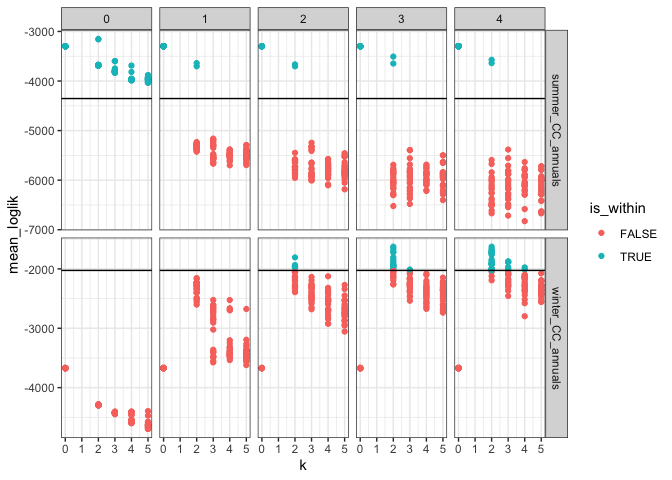
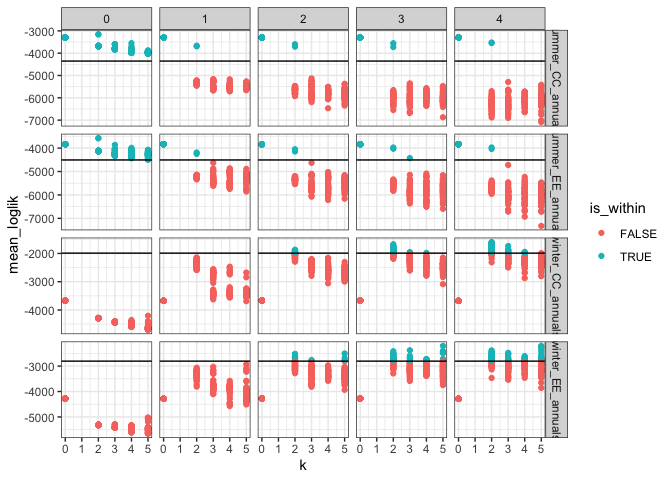
run with 2se

diff --git a/analysis/dev/plants_explore.md b/analysis/dev/plants_explore.md
@@ -1,7 +1,7 @@
 Portal annuals
 ================
 Renata Diaz
-2021-05-30
+2021-07-07
 
   - [Specs](#specs)
   - [winter](#winter)
@@ -10,16 +10,17 @@ Renata Diaz
 ## Specs
 
 ``` r
-   ldats_fit = target(fit_ldats_crossval(dataset, buffer = 2, k = ks, lda_seed = seeds, cpts = cpts, nit = 100),
+   methods <- drake::drake_plan(
+    ldats_fit = target(fit_ldats_crossval(dataset, buffer = 2, k = ks, lda_seed = seeds, cpts = cpts, nit = 100),
                        transform = cross(
                          dataset = !!rlang::syms(datasets$target),
                          ks = !!c(0,2:5),
-                         seeds = !!seq(2, 50, by = 2),
+                         seeds = !!seq(2, 100, by = 2),
                          cpts = !!c(0:4),
                          return_full = F,
                          return_fits = F,
                          summarize_ll = F
-                       ))
+                       )),
 ```
 
     ## Joining, by = "dat_name"
@@ -40,17 +41,63 @@ Renata Diaz
 
 | k | lda\_seed | cpts | nit | mean\_loglik | se\_loglik | dat\_name           |    Mean | Median | Mode | Lower\_95% | Upper\_95% |   SD | MCMCerr |   AC10 |      ESS | cpt | nyears | width | width\_ratio | modal\_estimate | seg\_before | seg\_after | dissimilarity | overall\_r2 | species\_mean\_r2 |
 | -: | --------: | ---: | --: | -----------: | ---------: | :------------------ | ------: | -----: | ---: | ---------: | ---------: | ---: | ------: | -----: | -------: | :-- | -----: | ----: | -----------: | --------------: | ----------: | ---------: | ------------: | ----------: | ----------------: |
-| 2 |        10 |    2 | 100 |   \-1806.318 |   483.6171 | winter\_CC\_annuals | 1994.94 |   1995 | 1993 |       1990 |       1999 | 2.44 |  0.0772 | 0.0582 | 269.0895 | 1   |     26 |     9 |    0.3461538 |            1993 |           1 |          2 |     0.3554668 |   0.3635679 |         0.2422645 |
-| 2 |        10 |    2 | 100 |   \-1806.318 |   483.6171 | winter\_CC\_annuals | 2004.98 |   2003 | 1997 |       1994 |       2017 | 7.29 |  0.2305 | 0.0188 | 278.4256 | 2   |     26 |    23 |    0.8846154 |            1996 |           2 |          3 |     0.3950211 |   0.3635679 |         0.2422645 |
+| 2 |        28 |    2 | 100 |   \-1870.255 |   521.1112 | winter\_CC\_annuals | 1995.13 |   1995 | 1995 |       1990 |       1999 | 2.45 |  0.0775 | 0.0790 | 213.5659 | 1   |     26 |     9 |    0.3461538 |            1997 |           1 |          2 |     0.5990332 |   0.3378945 |         0.2422645 |
+| 2 |        28 |    2 | 100 |   \-1870.255 |   521.1112 | winter\_CC\_annuals | 2005.30 |   2005 | 1998 |       1994 |       2017 | 7.02 |  0.2220 | 0.0703 | 223.8941 | 2   |     26 |    23 |    0.8846154 |            2013 |           2 |          3 |     0.0065182 |   0.3378945 |         0.2422645 |
 
 </div>
 
 ![](plants_explore_files/figure-gfm/unnamed-chunk-3-1.png)<!-- -->![](plants_explore_files/figure-gfm/unnamed-chunk-3-2.png)<!-- -->
 
-## summer
+<div class="kable-table">
 
-    ## Warning in if (model_fit$config$cpts == 0) {: the condition has length > 1 and
-    ## only the first element will be used
+| topic | species   |      prop | topic\_rank |
+| :---- | :-------- | --------: | ----------: |
+| V1    | hapl grac | 0.7648339 |           1 |
+| V1    | erio aber | 0.0840134 |           2 |
+| V1    | eria diff | 0.0663522 |           3 |
+| V1    | vulp octo | 0.0187866 |           4 |
+| V2    | erod cicu | 0.2924020 |           1 |
+| V2    | astr nutt | 0.1718366 |           2 |
+| V2    | chae stev | 0.1367089 |           3 |
+| V2    | lesq gord | 0.1090980 |           4 |
+
+</div>
+
+    ## Joining, by = "year"
+
+    ## Joining, by = "cpt"
+
+    ## Joining, by = "year"
+
+    ## Joining, by = c("year", "species")
+
+<div class="kable-table">
+
+| k | lda\_seed | cpts | nit | mean\_loglik | se\_loglik | dat\_name           |    Mean | Median | Mode | Lower\_95% | Upper\_95% |   SD | MCMCerr |   AC10 |      ESS | cpt | nyears | width | width\_ratio | modal\_estimate | seg\_before | seg\_after | dissimilarity | overall\_r2 | species\_mean\_r2 |
+| -: | --------: | ---: | --: | -----------: | ---------: | :------------------ | ------: | -----: | ---: | ---------: | ---------: | ---: | ------: | -----: | -------: | :-- | -----: | ----: | -----------: | --------------: | ----------: | ---------: | ------------: | ----------: | ----------------: |
+| 2 |        94 |    2 | 100 |   \-2519.017 |   756.2338 | winter\_EE\_annuals | 1994.63 |   1994 | 1993 |       1990 |       2000 | 2.95 |  0.0933 | 0.0816 | 303.9290 | 1   |     27 |    10 |    0.3703704 |            1993 |           1 |          2 |     0.3628510 |   0.5369984 |         0.3921912 |
+| 2 |        94 |    2 | 100 |   \-2519.017 |   756.2338 | winter\_EE\_annuals | 2005.30 |   2006 | 1997 |       1994 |       2018 | 7.59 |  0.2400 | 0.0671 | 171.5457 | 2   |     27 |    24 |    0.8888889 |            1995 |           2 |          3 |     0.2327235 |   0.5369984 |         0.3921912 |
+
+</div>
+
+![](plants_explore_files/figure-gfm/unnamed-chunk-3-3.png)<!-- -->![](plants_explore_files/figure-gfm/unnamed-chunk-3-4.png)<!-- -->
+
+<div class="kable-table">
+
+| topic | species   |      prop | topic\_rank |
+| :---- | :-------- | --------: | ----------: |
+| V1    | erod cicu | 0.4411626 |           1 |
+| V1    | astr nutt | 0.2266369 |           2 |
+| V1    | lesq gord | 0.0740993 |           3 |
+| V1    | erio aber | 0.0550191 |           4 |
+| V2    | hapl grac | 0.7581819 |           1 |
+| V2    | eria diff | 0.0807321 |           2 |
+| V2    | erio aber | 0.0464280 |           3 |
+| V2    | astr nutt | 0.0309030 |           4 |
+
+</div>
+
+## summer
 
     ## Joining, by = "year"
 
@@ -65,31 +112,25 @@ Renata Diaz
 | k | lda\_seed | cpts | nit | mean\_loglik | se\_loglik | dat\_name           | Mean | Median | Mode | Lower\_95. | Upper\_95. | SD | MCMCerr | AC10 | ESS | cpt | nyears | width | width\_ratio | modal\_estimate | seg\_before | seg\_after | dissimilarity | overall\_r2 | species\_mean\_r2 |
 | -: | --------: | ---: | --: | -----------: | ---------: | :------------------ | :--- | :----- | :--- | :--------- | :--------- | :- | :------ | :--- | --: | :-- | -----: | :---- | :----------- | :-------------- | :---------- | :--------- | :------------ | ----------: | ----------------: |
 | 0 |         2 |    0 | 100 |   \-3297.154 |   1231.419 | summer\_CC\_annuals | NA   | NA     | NA   | NA         | NA         | NA | NA      | NA   |   0 | NA  |     25 | NA    | NA           | NA              | NA          | NA         | NA            |   0.3089993 |         0.3089993 |
-| 0 |         4 |    0 | 100 |   \-3297.154 |   1231.419 | summer\_CC\_annuals | NA   | NA     | NA   | NA         | NA         | NA | NA      | NA   |   0 | NA  |     25 | NA    | NA           | NA              | NA          | NA         | NA            |   0.3089993 |         0.3089993 |
-| 0 |         6 |    0 | 100 |   \-3297.154 |   1231.419 | summer\_CC\_annuals | NA   | NA     | NA   | NA         | NA         | NA | NA      | NA   |   0 | NA  |     25 | NA    | NA           | NA              | NA          | NA         | NA            |   0.3089993 |         0.3089993 |
-| 0 |         8 |    0 | 100 |   \-3297.154 |   1231.419 | summer\_CC\_annuals | NA   | NA     | NA   | NA         | NA         | NA | NA      | NA   |   0 | NA  |     25 | NA    | NA           | NA              | NA          | NA         | NA            |   0.3089993 |         0.3089993 |
-| 0 |        10 |    0 | 100 |   \-3297.154 |   1231.419 | summer\_CC\_annuals | NA   | NA     | NA   | NA         | NA         | NA | NA      | NA   |   0 | NA  |     25 | NA    | NA           | NA              | NA          | NA         | NA            |   0.3089993 |         0.3089993 |
-| 0 |        12 |    0 | 100 |   \-3297.154 |   1231.419 | summer\_CC\_annuals | NA   | NA     | NA   | NA         | NA         | NA | NA      | NA   |   0 | NA  |     25 | NA    | NA           | NA              | NA          | NA         | NA            |   0.3089993 |         0.3089993 |
-| 0 |        14 |    0 | 100 |   \-3297.154 |   1231.419 | summer\_CC\_annuals | NA   | NA     | NA   | NA         | NA         | NA | NA      | NA   |   0 | NA  |     25 | NA    | NA           | NA              | NA          | NA         | NA            |   0.3089993 |         0.3089993 |
-| 0 |        16 |    0 | 100 |   \-3297.154 |   1231.419 | summer\_CC\_annuals | NA   | NA     | NA   | NA         | NA         | NA | NA      | NA   |   0 | NA  |     25 | NA    | NA           | NA              | NA          | NA         | NA            |   0.3089993 |         0.3089993 |
-| 0 |        18 |    0 | 100 |   \-3297.154 |   1231.419 | summer\_CC\_annuals | NA   | NA     | NA   | NA         | NA         | NA | NA      | NA   |   0 | NA  |     25 | NA    | NA           | NA              | NA          | NA         | NA            |   0.3089993 |         0.3089993 |
-| 0 |        20 |    0 | 100 |   \-3297.154 |   1231.419 | summer\_CC\_annuals | NA   | NA     | NA   | NA         | NA         | NA | NA      | NA   |   0 | NA  |     25 | NA    | NA           | NA              | NA          | NA         | NA            |   0.3089993 |         0.3089993 |
-| 0 |        22 |    0 | 100 |   \-3297.154 |   1231.419 | summer\_CC\_annuals | NA   | NA     | NA   | NA         | NA         | NA | NA      | NA   |   0 | NA  |     25 | NA    | NA           | NA              | NA          | NA         | NA            |   0.3089993 |         0.3089993 |
-| 0 |        24 |    0 | 100 |   \-3297.154 |   1231.419 | summer\_CC\_annuals | NA   | NA     | NA   | NA         | NA         | NA | NA      | NA   |   0 | NA  |     25 | NA    | NA           | NA              | NA          | NA         | NA            |   0.3089993 |         0.3089993 |
-| 0 |        26 |    0 | 100 |   \-3297.154 |   1231.419 | summer\_CC\_annuals | NA   | NA     | NA   | NA         | NA         | NA | NA      | NA   |   0 | NA  |     25 | NA    | NA           | NA              | NA          | NA         | NA            |   0.3089993 |         0.3089993 |
-| 0 |        28 |    0 | 100 |   \-3297.154 |   1231.419 | summer\_CC\_annuals | NA   | NA     | NA   | NA         | NA         | NA | NA      | NA   |   0 | NA  |     25 | NA    | NA           | NA              | NA          | NA         | NA            |   0.3089993 |         0.3089993 |
-| 0 |        30 |    0 | 100 |   \-3297.154 |   1231.419 | summer\_CC\_annuals | NA   | NA     | NA   | NA         | NA         | NA | NA      | NA   |   0 | NA  |     25 | NA    | NA           | NA              | NA          | NA         | NA            |   0.3089993 |         0.3089993 |
-| 0 |        32 |    0 | 100 |   \-3297.154 |   1231.419 | summer\_CC\_annuals | NA   | NA     | NA   | NA         | NA         | NA | NA      | NA   |   0 | NA  |     25 | NA    | NA           | NA              | NA          | NA         | NA            |   0.3089993 |         0.3089993 |
-| 0 |        34 |    0 | 100 |   \-3297.154 |   1231.419 | summer\_CC\_annuals | NA   | NA     | NA   | NA         | NA         | NA | NA      | NA   |   0 | NA  |     25 | NA    | NA           | NA              | NA          | NA         | NA            |   0.3089993 |         0.3089993 |
-| 0 |        36 |    0 | 100 |   \-3297.154 |   1231.419 | summer\_CC\_annuals | NA   | NA     | NA   | NA         | NA         | NA | NA      | NA   |   0 | NA  |     25 | NA    | NA           | NA              | NA          | NA         | NA            |   0.3089993 |         0.3089993 |
-| 0 |        38 |    0 | 100 |   \-3297.154 |   1231.419 | summer\_CC\_annuals | NA   | NA     | NA   | NA         | NA         | NA | NA      | NA   |   0 | NA  |     25 | NA    | NA           | NA              | NA          | NA         | NA            |   0.3089993 |         0.3089993 |
-| 0 |        40 |    0 | 100 |   \-3297.154 |   1231.419 | summer\_CC\_annuals | NA   | NA     | NA   | NA         | NA         | NA | NA      | NA   |   0 | NA  |     25 | NA    | NA           | NA              | NA          | NA         | NA            |   0.3089993 |         0.3089993 |
-| 0 |        42 |    0 | 100 |   \-3297.154 |   1231.419 | summer\_CC\_annuals | NA   | NA     | NA   | NA         | NA         | NA | NA      | NA   |   0 | NA  |     25 | NA    | NA           | NA              | NA          | NA         | NA            |   0.3089993 |         0.3089993 |
-| 0 |        44 |    0 | 100 |   \-3297.154 |   1231.419 | summer\_CC\_annuals | NA   | NA     | NA   | NA         | NA         | NA | NA      | NA   |   0 | NA  |     25 | NA    | NA           | NA              | NA          | NA         | NA            |   0.3089993 |         0.3089993 |
-| 0 |        46 |    0 | 100 |   \-3297.154 |   1231.419 | summer\_CC\_annuals | NA   | NA     | NA   | NA         | NA         | NA | NA      | NA   |   0 | NA  |     25 | NA    | NA           | NA              | NA          | NA         | NA            |   0.3089993 |         0.3089993 |
-| 0 |        48 |    0 | 100 |   \-3297.154 |   1231.419 | summer\_CC\_annuals | NA   | NA     | NA   | NA         | NA         | NA | NA      | NA   |   0 | NA  |     25 | NA    | NA           | NA              | NA          | NA         | NA            |   0.3089993 |         0.3089993 |
-| 0 |        50 |    0 | 100 |   \-3297.154 |   1231.419 | summer\_CC\_annuals | NA   | NA     | NA   | NA         | NA         | NA | NA      | NA   |   0 | NA  |     25 | NA    | NA           | NA              | NA          | NA         | NA            |   0.3089993 |         0.3089993 |
 
 </div>
 
 ![](plants_explore_files/figure-gfm/unnamed-chunk-4-1.png)<!-- -->![](plants_explore_files/figure-gfm/unnamed-chunk-4-2.png)<!-- -->
+
+    ## Joining, by = "year"
+
+    ## Joining, by = "cpt"
+
+    ## Joining, by = "year"
+
+    ## Joining, by = c("year", "species")
+
+<div class="kable-table">
+
+| k | lda\_seed | cpts | nit | mean\_loglik | se\_loglik | dat\_name           | Mean | Median | Mode | Lower\_95. | Upper\_95. | SD | MCMCerr | AC10 | ESS | cpt | nyears | width | width\_ratio | modal\_estimate | seg\_before | seg\_after | dissimilarity | overall\_r2 | species\_mean\_r2 |
+| -: | --------: | ---: | --: | -----------: | ---------: | :------------------ | :--- | :----- | :--- | :--------- | :--------- | :- | :------ | :--- | --: | :-- | -----: | :---- | :----------- | :-------------- | :---------- | :--------- | :------------ | ----------: | ----------------: |
+| 0 |         2 |    0 | 100 |    \-3833.49 |   1090.141 | summer\_EE\_annuals | NA   | NA     | NA   | NA         | NA         | NA | NA      | NA   |   0 | NA  |     26 | NA    | NA           | NA              | NA          | NA         | NA            |   0.3459892 |         0.3459892 |
+
+</div>
+
+![](plants_explore_files/figure-gfm/unnamed-chunk-4-3.png)<!-- -->![](plants_explore_files/figure-gfm/unnamed-chunk-4-4.png)<!-- -->

diff --git a/analysis/dev/portal_hartland_explore.md b/analysis/dev/portal_hartland_explore.md
@@ -1,7 +1,7 @@
 Portal rats + Hartland birds
 ================
 Renata Diaz
-2021-05-30
+2021-06-08
 
   - [Specs](#specs)
   - [BBS](#bbs)
@@ -10,11 +10,11 @@ Renata Diaz
 ## Specs
 
 ``` r
- ldats_fit = target(fit_ldats_crossval(dataset, buffer = 2, k = ks, lda_seed = seeds, cpts = cpts, nit = 100),
+  ldats_fit = target(fit_ldats_crossval(dataset, buffer = 2, k = ks, lda_seed = seeds, cpts = cpts, nit = 100),
                        transform = cross(
                          dataset = !!rlang::syms(datasets$target),
-                         ks = !!c(0,2:3),
-                         seeds = !!seq(2, 10, by = 2),
+                         ks = !!c(0,2:4),
+                         seeds = !!seq(2, 50, by = 2),
                          cpts = !!c(0:4),
                          return_full = F,
                          return_fits = F,
